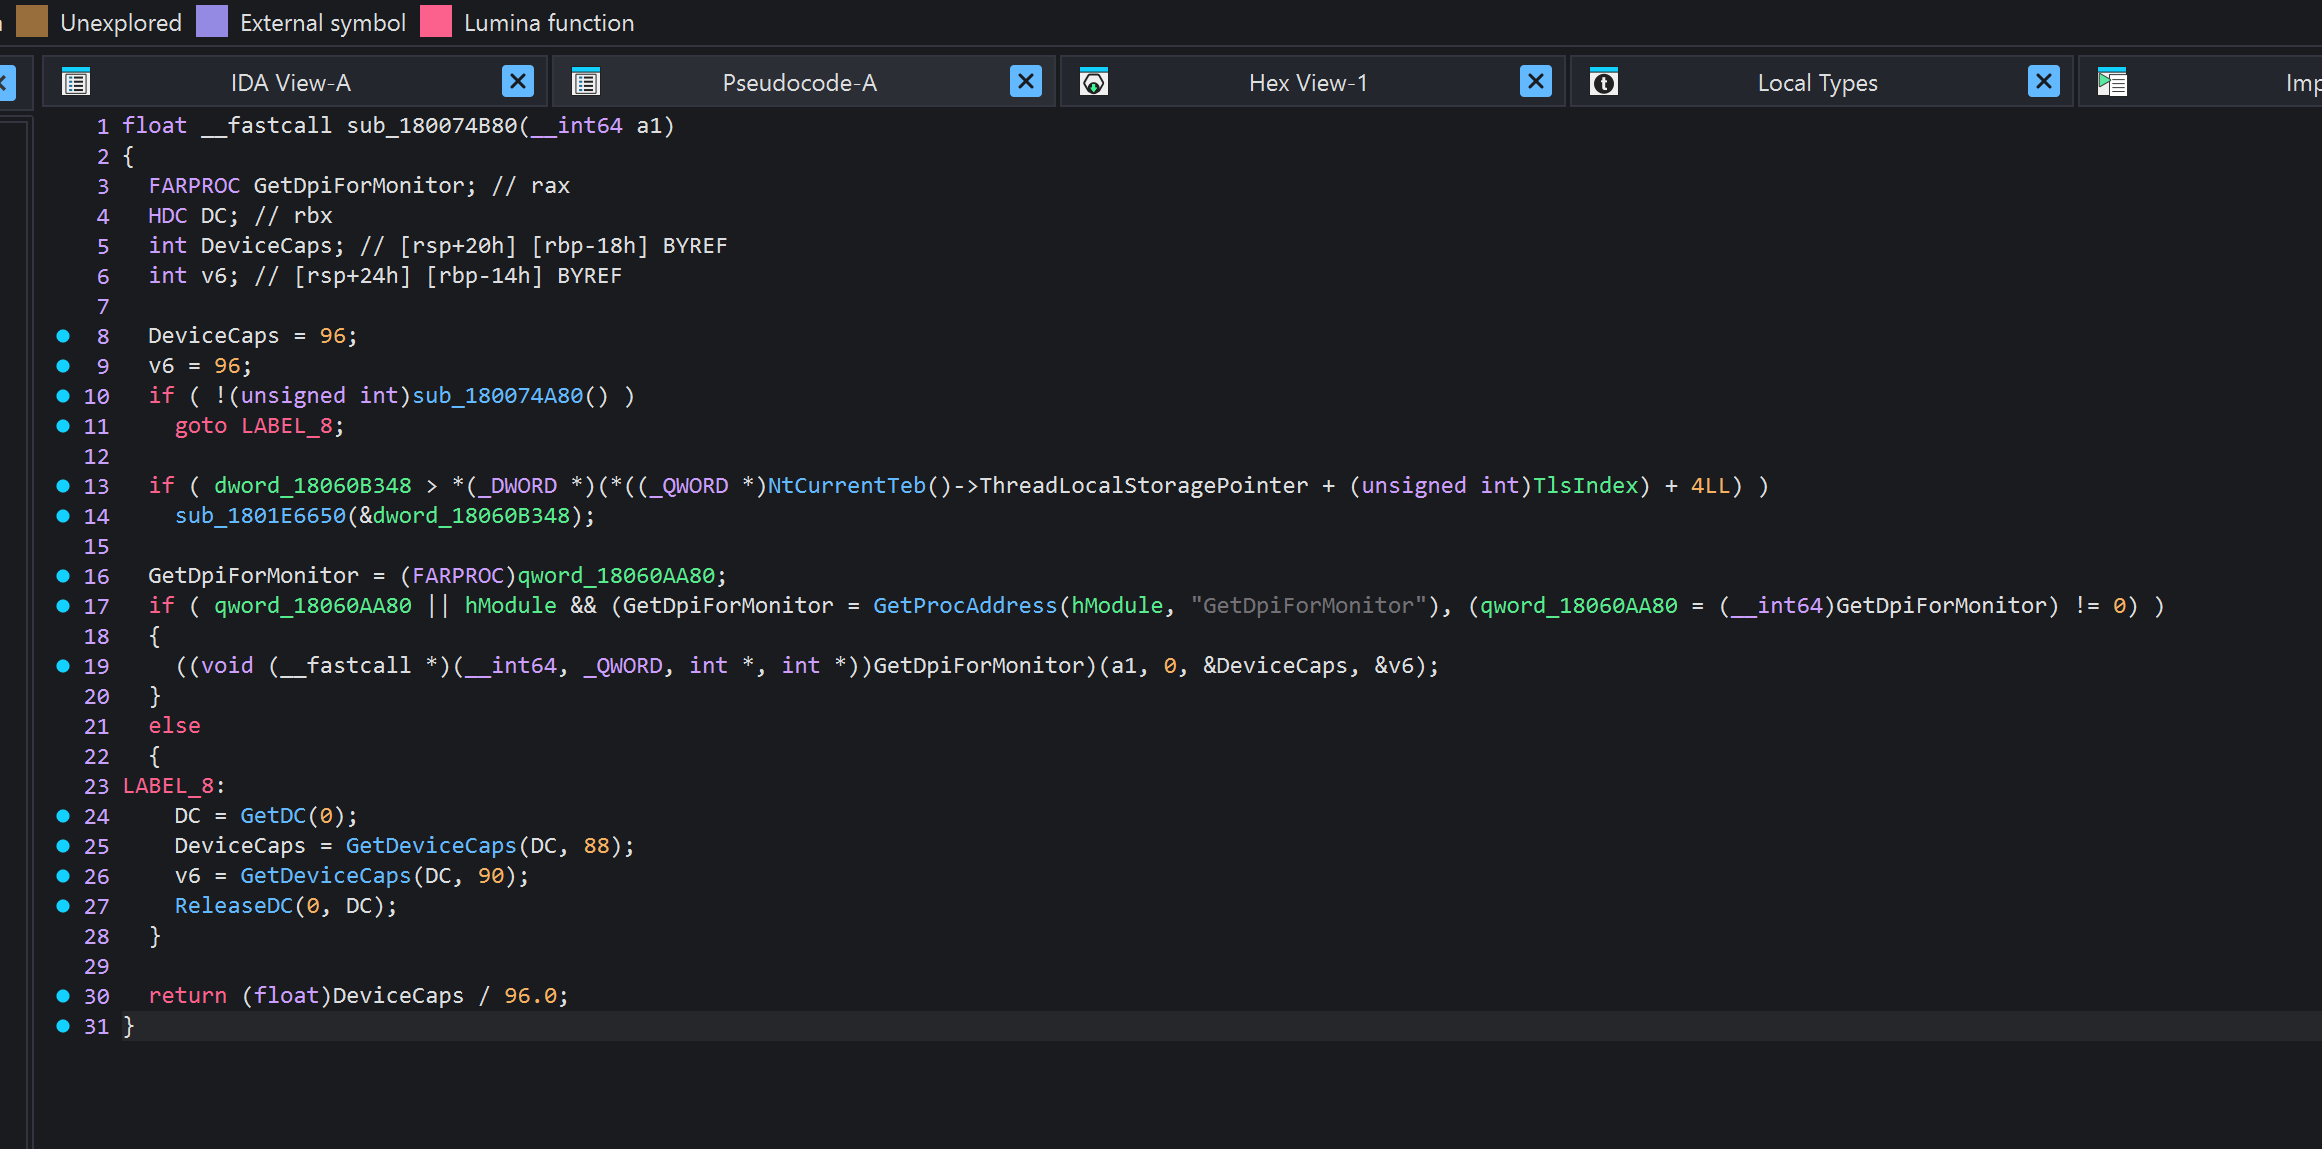
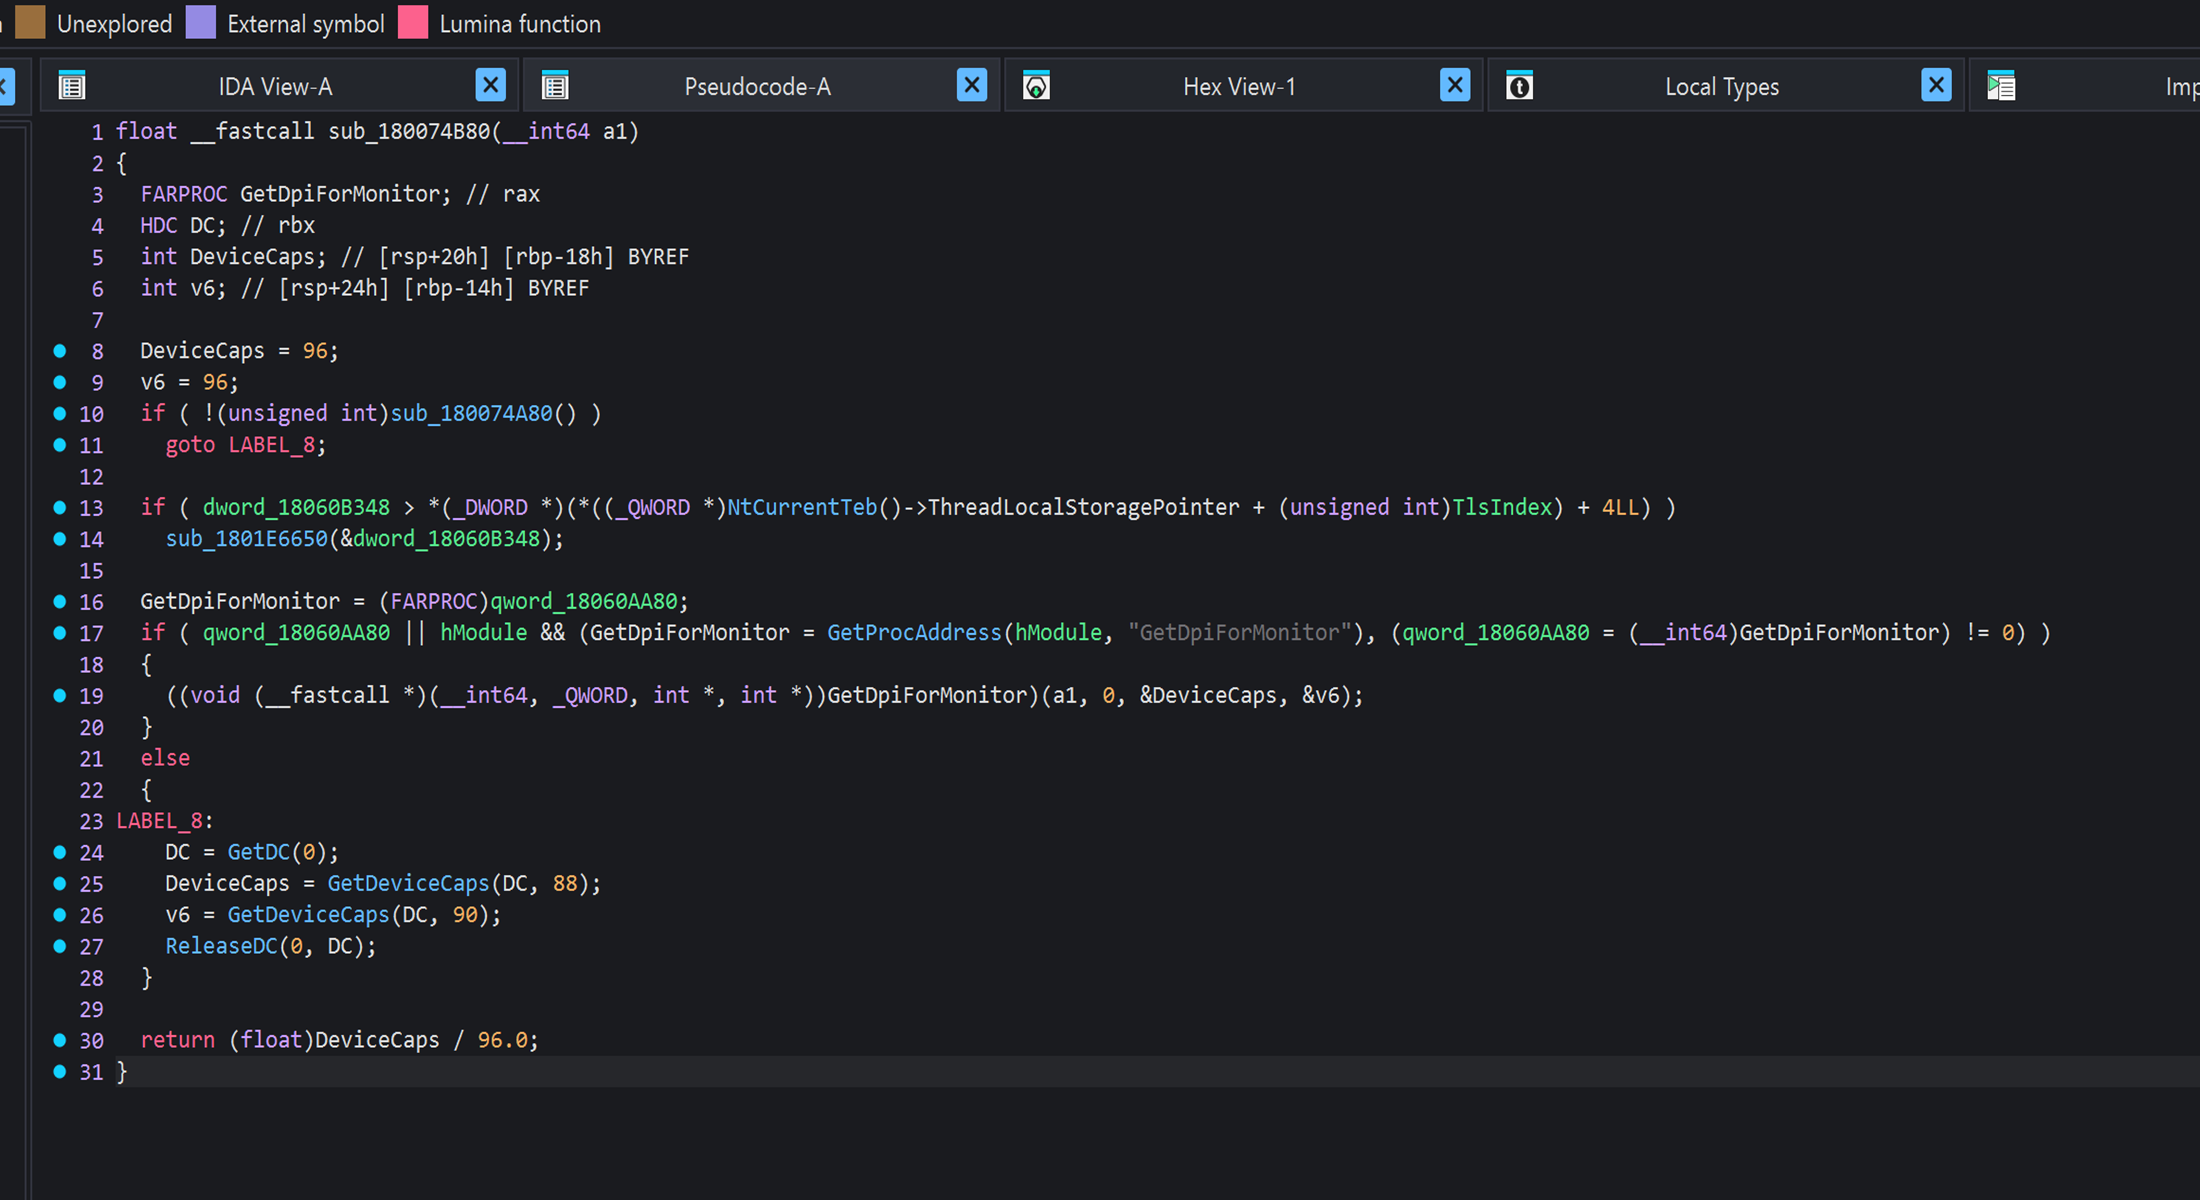
new images

Changed region(s): [[0.0927, 0.7311, 0.2164, 0.7615], [0.1236, 0.4265, 0.1545, 0.4569]]

diff --git a/README.md b/README.md
@@ -4,8 +4,12 @@ A theme for IDA, comes with a fixed ui and psuedo colouring.
 
 ## Preview
 
-![Disassembly](.images/disassembly.png)
-![Pseudocode](.images/psuedocode.png)
+<p>
+  <img src=".images/disassembly.png" alt="Disassembly" width="49%">
+  <img src=".images/psuedocode.png" alt="Pseudocode" width="49%">
+</p>
+
+![Window](.images/window.png)
 
 ## Installation
 
